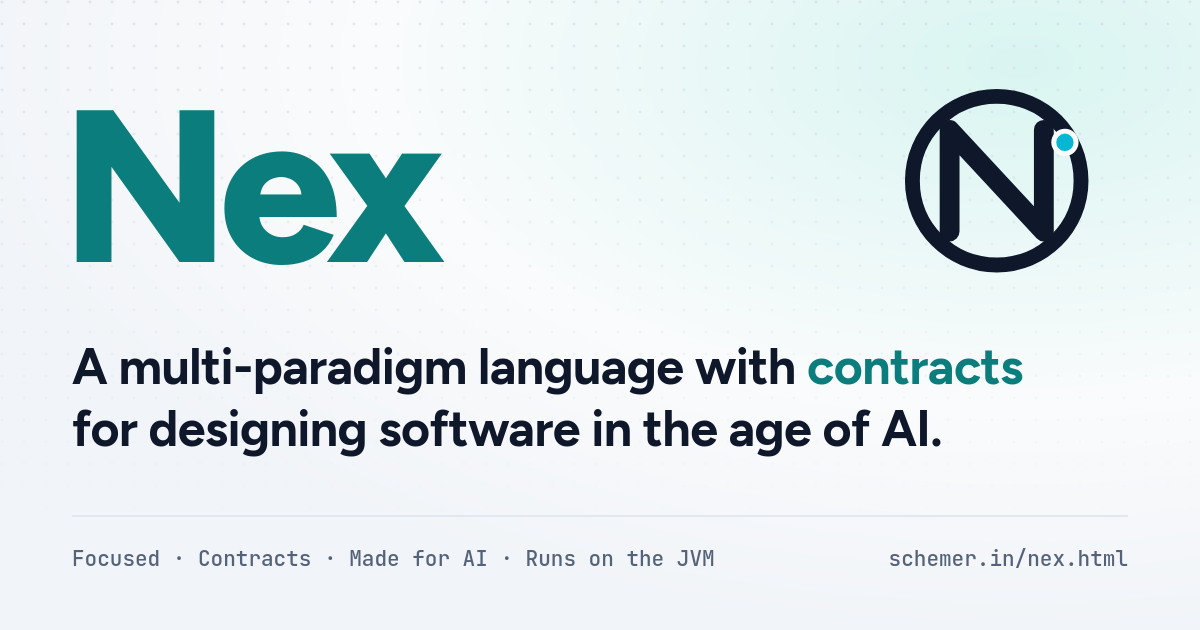
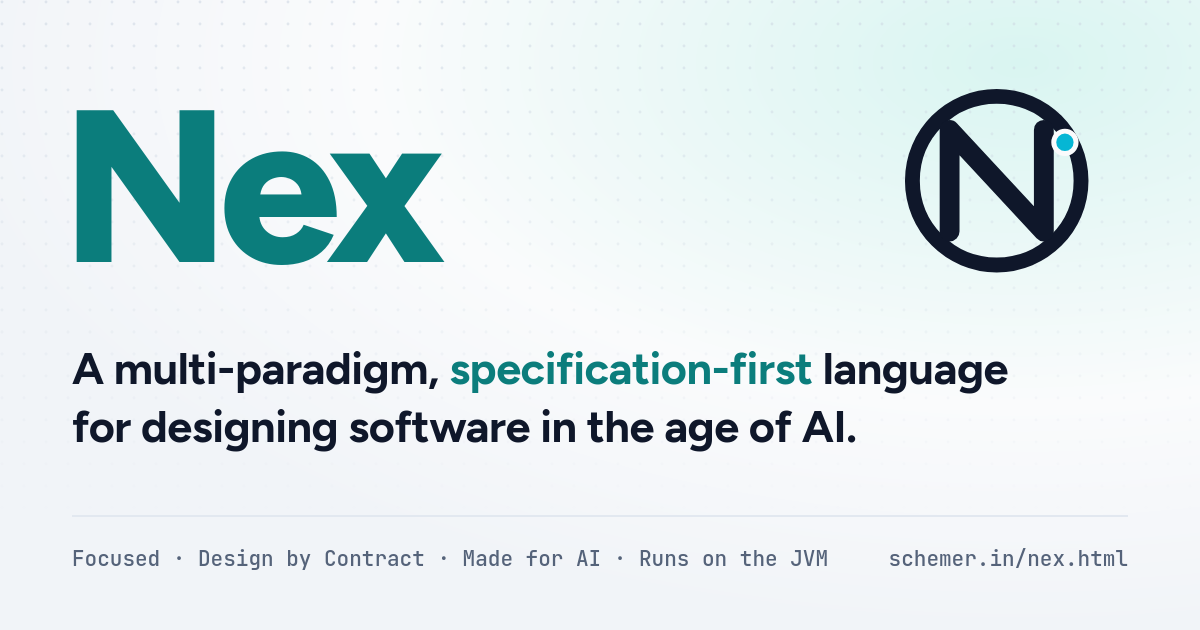
editorial updates

Changed region(s): [[0.0617, 0.5429, 0.8633, 0.7238], [0.185, 0.8746, 0.7092, 0.9048]]

diff --git a/nex.html b/nex.html
@@ -3,23 +3,23 @@
 <head>
 <meta charset="UTF-8">
 <meta name="viewport" content="width=device-width, initial-scale=1.0">
-<title>Nex — a multi-paradigm language with contracts</title>
-<meta name="description" content="Nex is a multi-paradigm language with contracts for designing software in the age of AI.">
+<title>Nex — a multi-paradigm, specification-first language</title>
+<meta name="description" content="Nex is a multi-paradigm, specification-first language for designing software in the age of AI.">
 <link rel="canonical" href="https://schemer.in/nex.html">
 <meta property="og:type" content="website">
 <meta property="og:site_name" content="Nex">
 <meta property="og:url" content="https://schemer.in/nex.html">
-<meta property="og:title" content="Nex — a multi-paradigm language with contracts">
-<meta property="og:description" content="Nex is a multi-paradigm language with contracts for designing software in the age of AI.">
+<meta property="og:title" content="Nex — a multi-paradigm, specification-first language">
+<meta property="og:description" content="Nex is a multi-paradigm, specification-first language for designing software in the age of AI.">
 <meta property="og:image" content="https://schemer.in/nex/assets/social-card.png">
 <meta property="og:image:width" content="1200">
 <meta property="og:image:height" content="630">
-<meta property="og:image:alt" content="Nex: a multi-paradigm language with contracts for designing software in the age of AI.">
+<meta property="og:image:alt" content="Nex: a multi-paradigm, specification-first language for designing software in the age of AI.">
 <meta name="twitter:card" content="summary_large_image">
-<meta name="twitter:title" content="Nex — a multi-paradigm language with contracts">
-<meta name="twitter:description" content="Nex is a multi-paradigm language with contracts for designing software in the age of AI.">
+<meta name="twitter:title" content="Nex — a multi-paradigm, specification-first language">
+<meta name="twitter:description" content="Nex is a multi-paradigm, specification-first language for designing software in the age of AI.">
 <meta name="twitter:image" content="https://schemer.in/nex/assets/social-card.png">
-<meta name="twitter:image:alt" content="Nex: a multi-paradigm language with contracts for designing software in the age of AI.">
+<meta name="twitter:image:alt" content="Nex: a multi-paradigm, specification-first language for designing software in the age of AI.">
 <link rel="preconnect" href="https://fonts.googleapis.com">
 <link rel="preconnect" href="https://fonts.gstatic.com" crossorigin>
 <link href="https://fonts.googleapis.com/css2?family=Figtree:wght@700;800&family=Inter:wght@400;500;600;700&family=JetBrains+Mono:wght@400;500;700&display=swap" rel="stylesheet">
@@ -33,7 +33,7 @@
 .hero { padding: 6rem 0 5.5rem; border-bottom: 1px solid var(--line); }
 .hero .wrap { display: grid; grid-template-columns: auto 1fr; gap: 4rem; align-items: center; }
 .word { font: 800 clamp(5rem, 15vw, 10rem)/.9 var(--display); letter-spacing: -.05em; color: var(--ink); }
-.pitch { font: 600 clamp(1.4rem, 2.6vw, 1.95rem)/1.3 var(--display); letter-spacing: -.01em; max-width: 38rem; }
+.pitch { font: 600 clamp(1.4rem, 2.6vw, 1.95rem)/1.3 var(--display); letter-spacing: -.01em; max-width: 44rem; }
 .pitch em { font-style: normal; color: var(--ink); }
 .hero .cta { display: flex; gap: .8rem; flex-wrap: wrap; align-items: center; margin-top: 2rem; }
 .btn.big { padding: 1rem 2rem; font-size: 1.05rem; text-transform: uppercase; letter-spacing: .06em; }
@@ -114,7 +114,7 @@ footer .wrap { display: block; }
   <div class="wrap">
     <h1 class="word">Nex</h1>
     <div>
-      <p class="pitch">A multi-paradigm language with <em>contracts</em> for designing software in the age of AI.</p>
+      <p class="pitch">A multi-paradigm, <em>specification-first</em> language for designing software in the age of AI.</p>
       <div class="cta">
         <a class="btn primary big" href="#install">Get started</a>
         <a class="btn big" href="./nex/tutorial.html">Take the tour</a>
@@ -129,22 +129,22 @@ footer .wrap { display: block; }
     <h2>Why Nex?</h2>
     <div class="pillars">
       <div class="pillar">
-        <h3><small>Focused</small>Essential. Nothing else</h3>
-        <p>Few keywords, and blocks that read like sentences. Classes, inheritance, generics and first-class functions sit side by side, so you use objects or functions as the problem needs, without learning three languages.</p>
+        <h3>Focused</h3>
+        <p>A small set of keywords, and code blocks that read like sentences. Classes, generics and first-class functions fit together in one compact design. Despite being rich and expressive, the whole language is small enough to fit in your head.</p>
         <a class="more" href="./nex/syntax.html">The whole syntax →</a>
       </div>
       <div class="pillar">
-        <h3><small>Contracts</small>Design you can run</h3>
-        <p>The specification is part of the code. It is checked on every call, so the two cannot drift apart, and a failure names the exact promise that broke.</p>
+        <h3>Design by Contract</h3>
+        <p>The specification is part of the code, and the runtime checks it on every call. Design and code can't quietly drift apart, as they often do in fast-evolving production software, and a failure names the exact promise that broke.</p>
         <a class="more" href="./nex/designed-for-correctness.html">Why contracts →</a>
       </div>
       <div class="pillar">
-        <h3><small>Made for AI</small>Review the promise, not every line</h3>
-        <p>When code is written faster than anyone can read it, you need a boundary you can check. You write the contract; a person or a model writes the body. Either the body keeps the promise, or Nex stops and says which one it broke.</p>
+        <h3>Made for AI</h3>
+        <p>AI tools now write code faster than anyone can read it, so you need a boundary you can check. In Nex, that boundary is the contract: it tells a model what to build, and the runtime checks that what it built keeps its promises.</p>
         <a class="more" href="./nex/blog/when-code-is-cheap.html">When code is cheap, design the promises →</a>
       </div>
       <div class="pillar">
-        <h3><small>JVM</small>Runs wherever Java runs</h3>
+        <h3>Runs on the JVM</h3>
         <p>Nex compiles to JVM bytecode. Ship your program as a single jar that runs on any machine with Java, with no Nex install needed there. Any Java library is one <code>import</code> away.</p>
         <a class="more" href="./nex/docs/programming-with-nex/chapter_24.html">Java interop →</a>
       </div>
